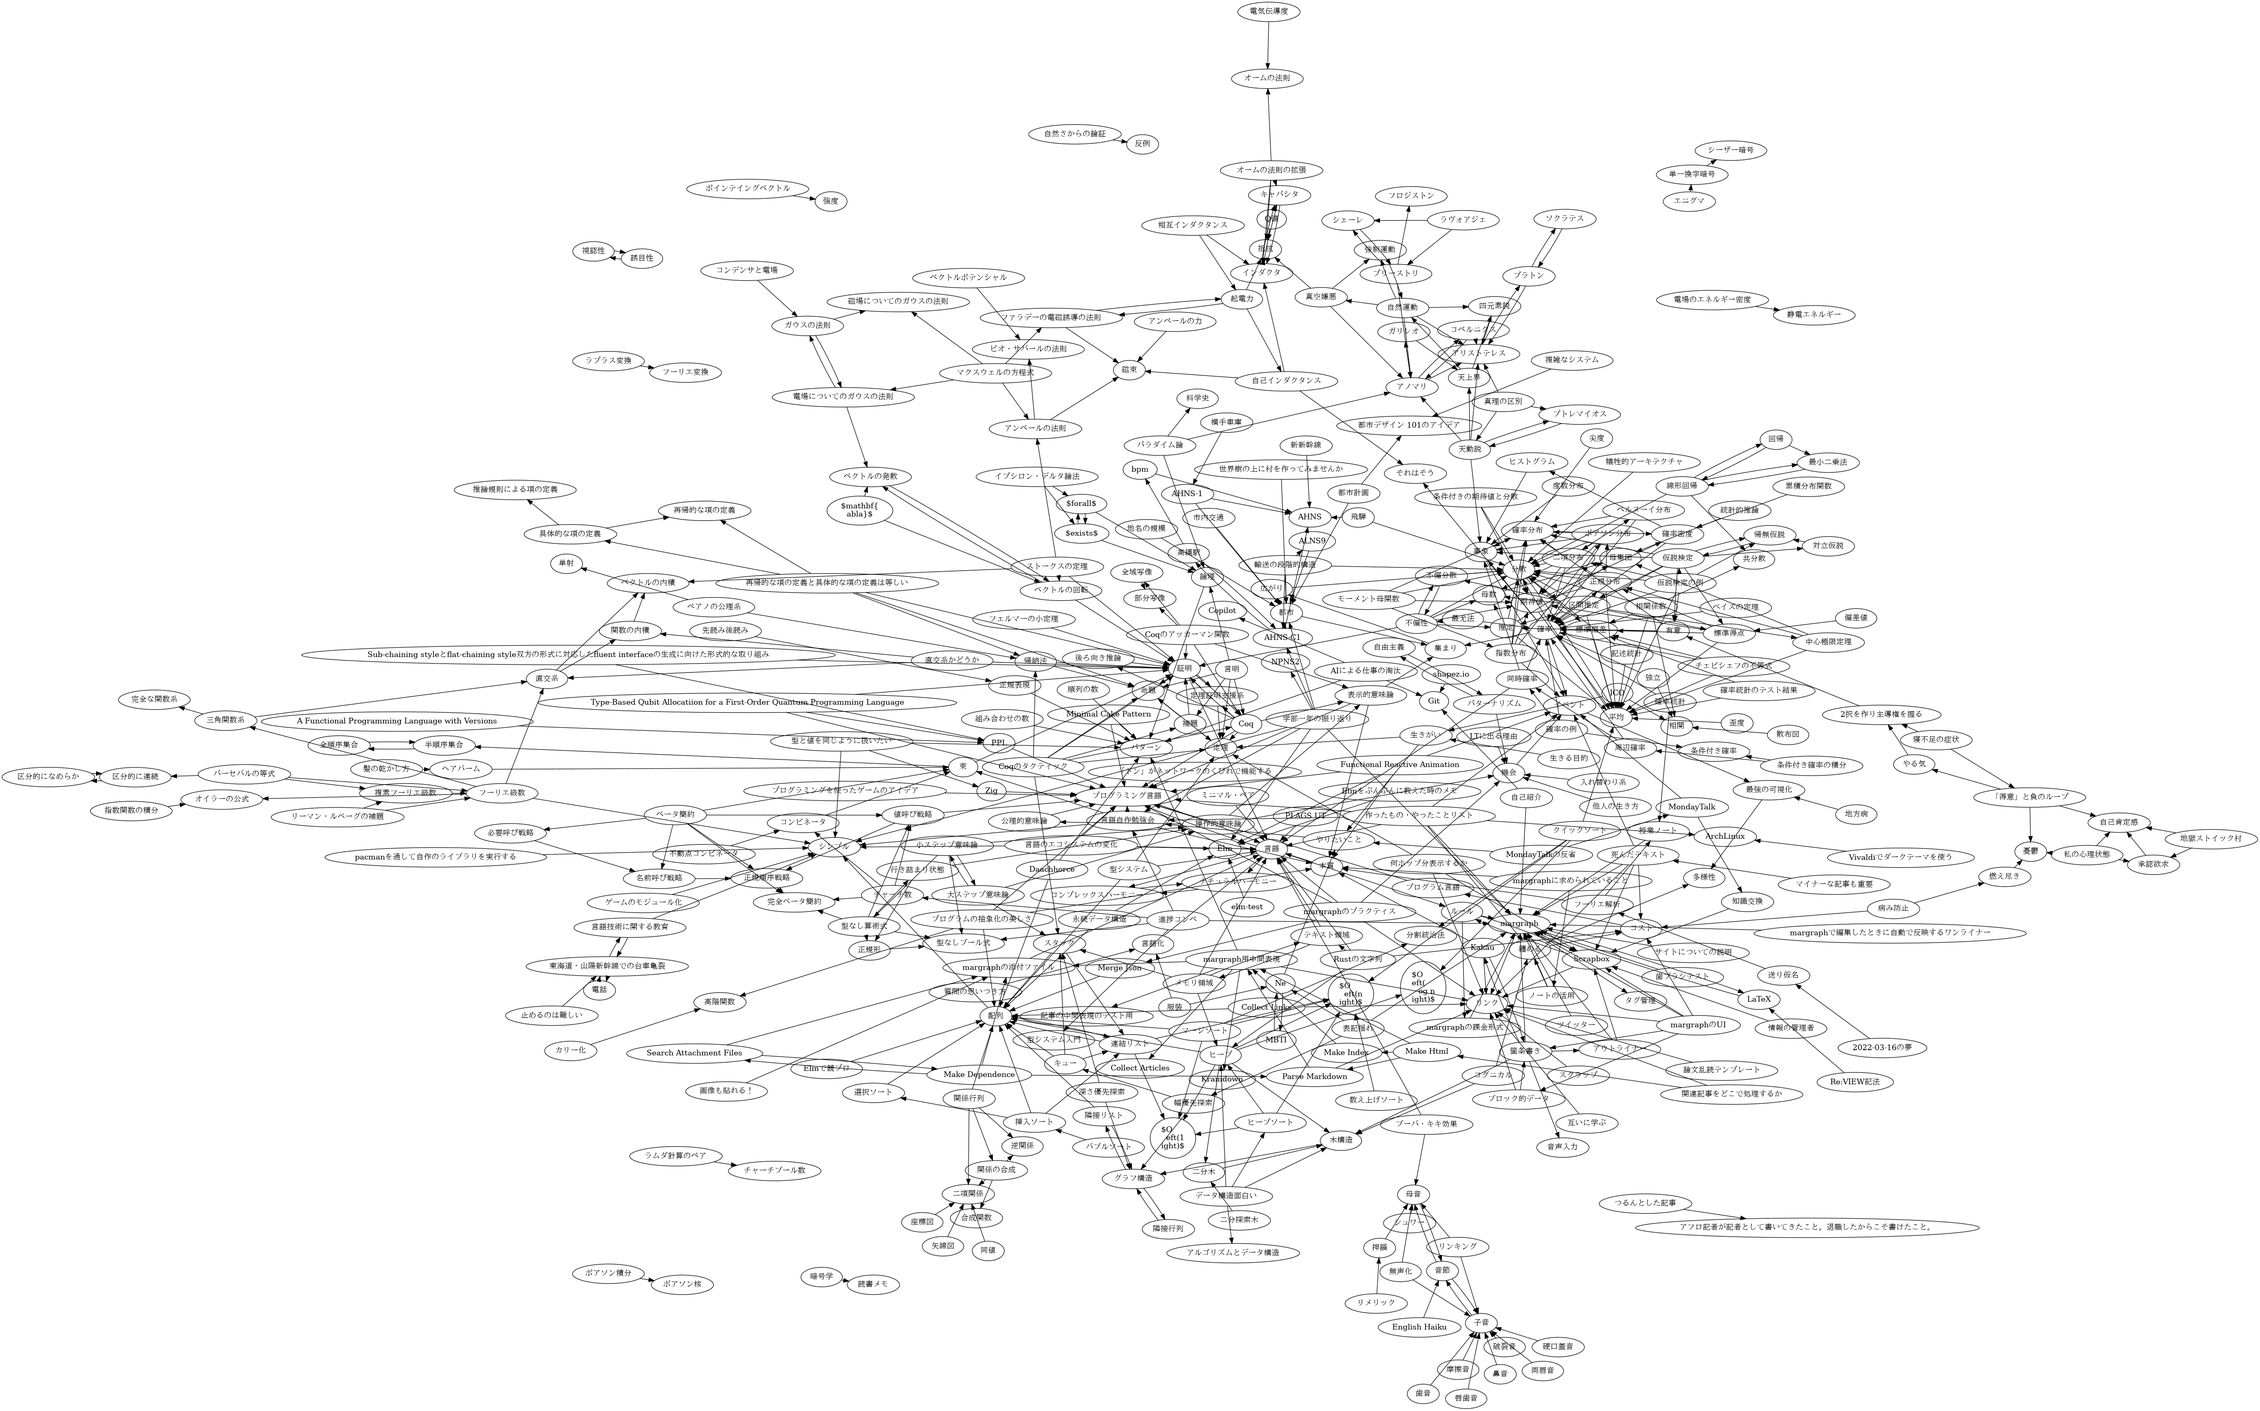
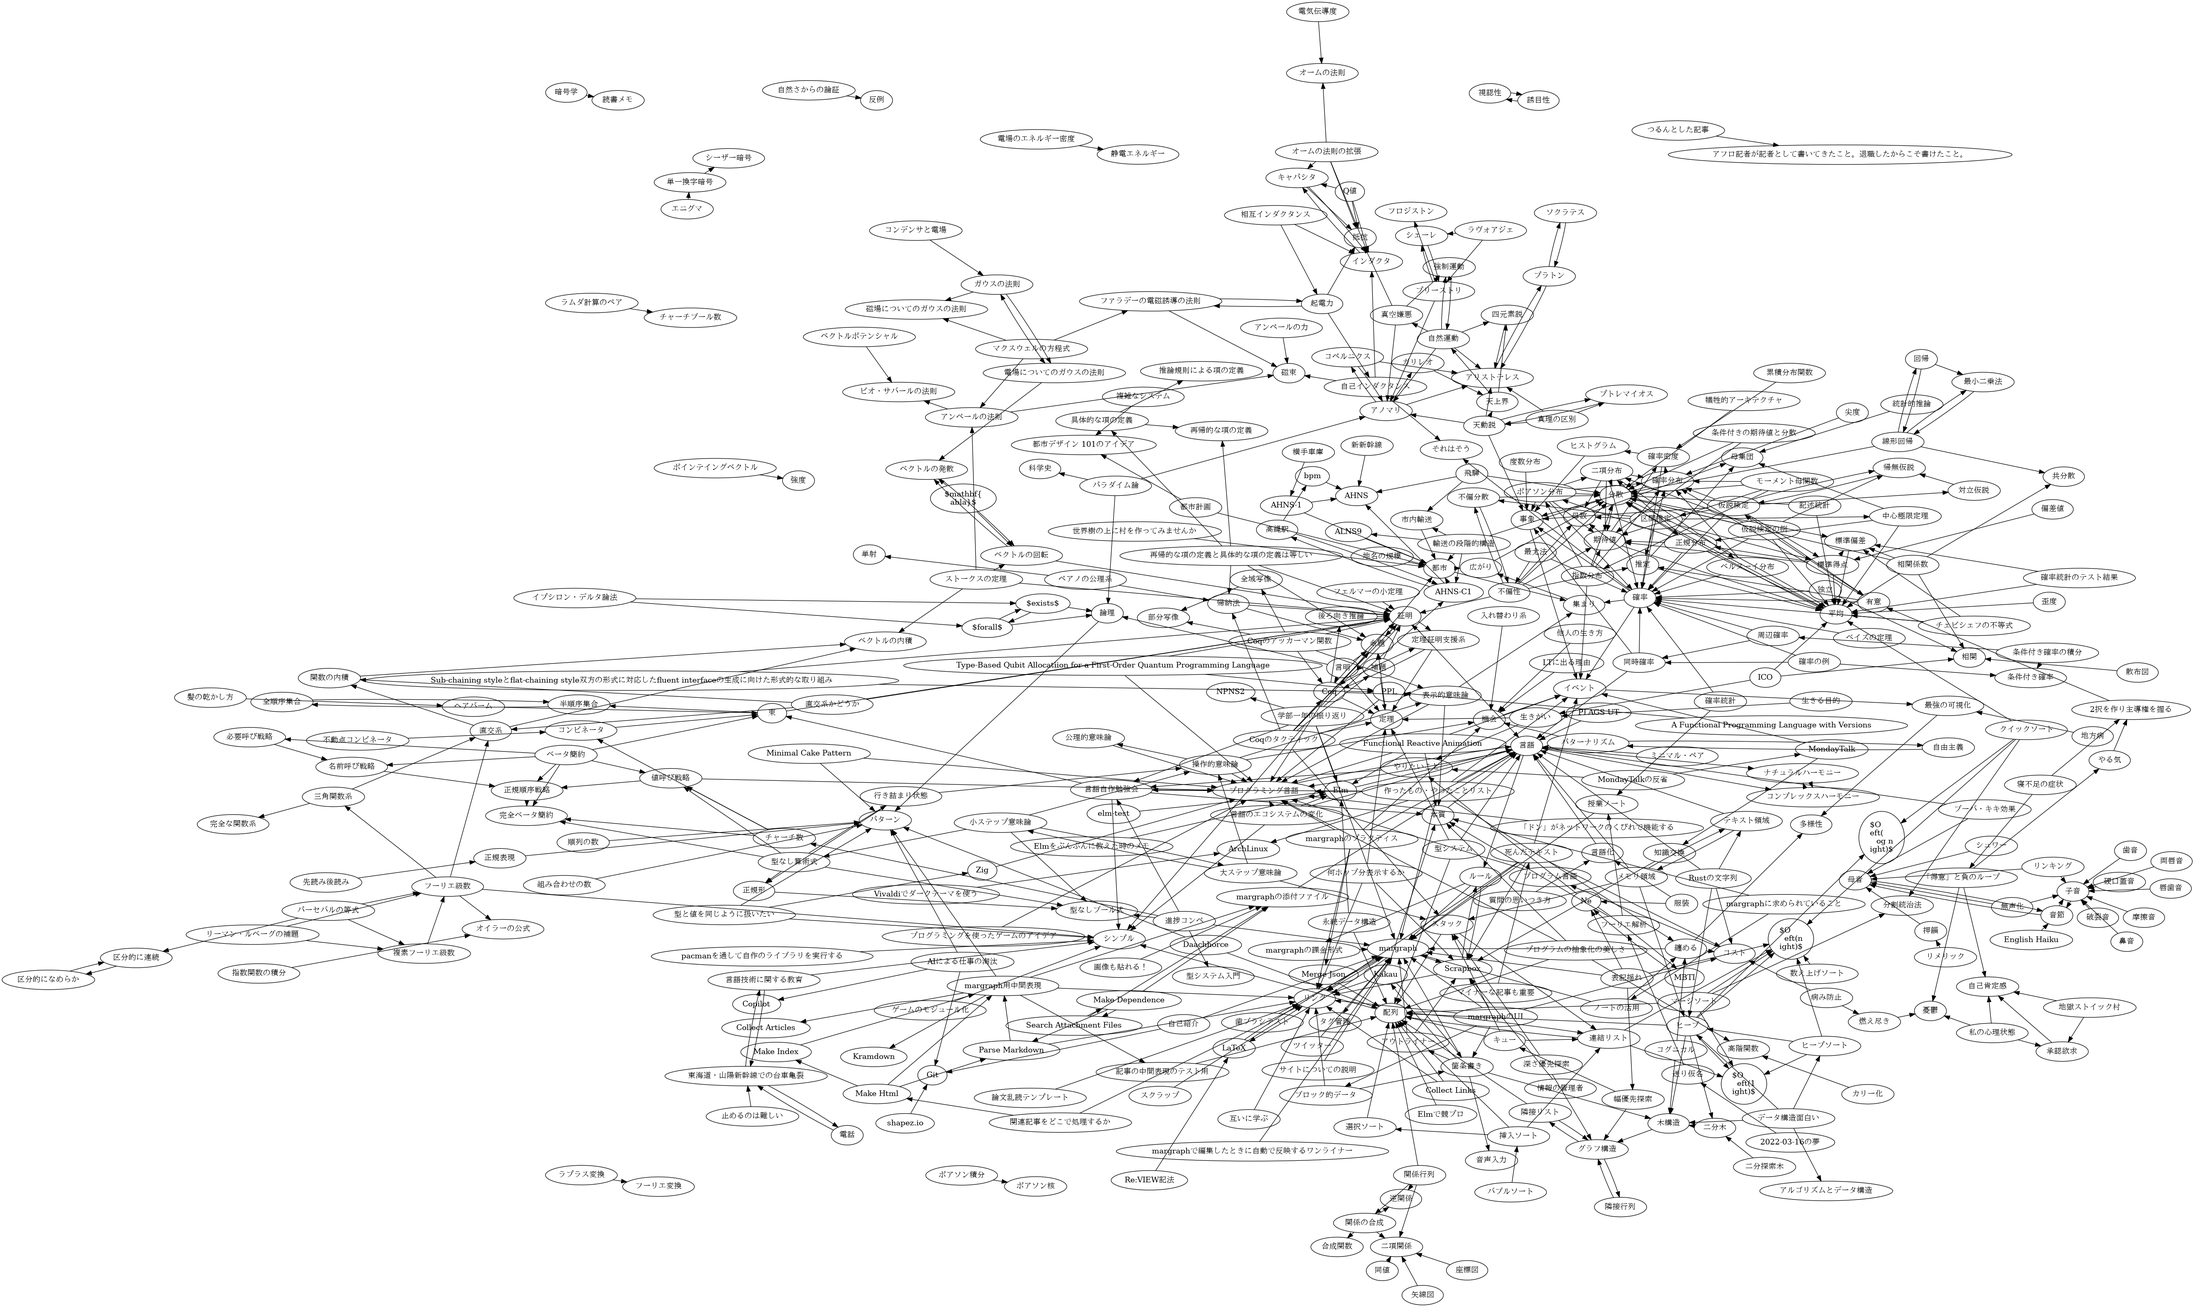
deploy: ae3b2362611cfc9bcfb476d93bd6c4784bf2bf09

diff --git a/simutrans/local-intra-city-trans.html b/simutrans/local-intra-city-trans.html
@@ -33,8 +33,8 @@
         
             
               <div><ul>
-  <li>市内輸送、<a href="../other/city.html">都市</a>圏内輸送、<a href="../other/city.html">都市</a>間輸送、…と、段階を分けたほうが効率が良くなる</li>
-  <li>シムトラでしばらく、ターミナル型で市内輸送と<a href="../other/city.html">都市</a>圏内輸送を合わせる実験をしていた
+  <li><a href="../simutrans/inner-city-transfar.html">市内輸送</a>、<a href="../other/city.html">都市</a>圏内輸送、<a href="../other/city.html">都市</a>間輸送、…と、段階を分けたほうが効率が良くなる</li>
+  <li>シムトラでしばらく、ターミナル型で<a href="../simutrans/inner-city-transfar.html">市内輸送</a>と<a href="../other/city.html">都市</a>圏内輸送を合わせる実験をしていた
     <ul>
       <li><a href="../simutrans/ahns-c1.html">AHNS-C1</a>の高輪ではバスで、<a href="../simutrans/alns-9.html">ALNS9</a>の大花では路面電車で</li>
       <li>ただ、ターミナル付近での交通機関による土地の混雑や、ターミナルから離れた区間で系統を新設しずらい問題が出てきた</li>
@@ -65,7 +65,7 @@
             <div class="col">
               
                 前の記事<br />
-                <a href="../simutrans/inner-city-transfar.html">市内交通</a>
+                <a href="../simutrans/inner-city-transfar.html">市内輸送</a>
               
             </div>
             <div class="col">
@@ -93,6 +93,27 @@
 
       
       <div class="link-network">
+        
+          <div class="row flex-nowrap overflow-auto">
+            <div class="col-4">
+              <div class="card h-100">
+                <div class="card-body">
+                  <h5 class="card-title fs-6"><a href="../simutrans/inner-city-transfar.html">市内輸送</a></h5>
+                  <p class="card-text">- 市内・都市内の需要を処理する交通 - バスや地下鉄、市電、...</p>
+                </div>
+              </div>
+            </div>
+            
+              <div class="col-4">
+                <div class="card h-100">
+                  <div class="card-body">
+                    <h5 class="card-title fs-6"><a href="../simutrans/hida.html">飛騨</a></h5>
+                    <p class="card-text">- AHNS-C2の飛騨付近の開発計画 - ニューヨークやシカ...</p>
+                  </div>
+                </div>
+              </div>
+            
+          </div>
         
           <div class="row flex-nowrap overflow-auto">
             <div class="col-4">
@@ -163,15 +184,6 @@
                   <div class="card-body">
                     <h5 class="card-title fs-6"><a href="../simutrans/ahns-1.html">AHNS-1</a></h5>
                     <p class="card-text">- 初めてのAHNS本戦   - この前にテスト鯖があった -...</p>
-                  </div>
-                </div>
-              </div>
-            
-              <div class="col-4">
-                <div class="card h-100">
-                  <div class="card-body">
-                    <h5 class="card-title fs-6"><a href="../simutrans/inner-city-transfar.html">市内交通</a></h5>
-                    <p class="card-text">- 市内・都市内の需要を処理する交通 - バスや地下鉄、市電、...</p>
                   </div>
                 </div>
               </div>
@@ -379,15 +391,6 @@
                   <div class="card-body">
                     <h5 class="card-title fs-6"><a href="../scraps/sacrificial-architecture.html">犠牲的アーキテクチャ</a></h5>
                     <p class="card-text">- https://bliki-ja.github.io/Sa...</p>
-                  </div>
-                </div>
-              </div>
-            
-              <div class="col-4">
-                <div class="card h-100">
-                  <div class="card-body">
-                    <h5 class="card-title fs-6"><a href="../simutrans/hida.html">飛騨</a></h5>
-                    <p class="card-text">- AHNS-C2の飛騨付近の開発計画 - ニューヨークやシカ...</p>
                   </div>
                 </div>
               </div>

diff --git a/simutrans/inner-city-transfar.html b/simutrans/inner-city-transfar.html
@@ -7,7 +7,7 @@
     <link rel="stylesheet" href="https://cdn.jsdelivr.net/npm/bootstrap-dark-5@1.1.3/dist/css/bootstrap-nightfall.min.css" media="(prefers-color-scheme: dark)">
     <link rel="stylesheet" href="https://cdnjs.cloudflare.com/ajax/libs/highlight.js/11.3.1/styles/base16/ashes.min.css">
     <link rel="stylesheet" href="../style.css" type="text/css">
-    <title>市内交通</title>
+    <title>市内輸送</title>
   </head>
   <body>
     
@@ -19,14 +19,14 @@
           
             <li class="breadcrumb-item"><a href="../simutrans/index.html">simutrans</a></li>
           
-          <li class="breadcrumb-item">市内交通</li>
+          <li class="breadcrumb-item">市内輸送</li>
         </ol>
       </div>
     </nav>
 
     <article class="container" style="max-width: 40em;">
 
-      <h1>市内交通</h1>
+      <h1>市内輸送</h1>
 
       
         <div class="contents">
@@ -180,14 +180,47 @@
                 </div>
               </div>
             
+          </div>
+        
+          <div class="row flex-nowrap overflow-auto">
+            <div class="col-4">
+              <div class="card h-100">
+                <div class="card-body">
+                  <h5 class="card-title fs-6"><a href="../simutrans/hida.html">飛騨</a></h5>
+                  <p class="card-text">- AHNS-C2の飛騨付近の開発計画 - ニューヨークやシカ...</p>
+                </div>
+              </div>
+            </div>
+            
               <div class="col-4">
                 <div class="card h-100">
                   <div class="card-body">
-                    <h5 class="card-title fs-6"><a href="../simutrans/local-intra-city-trans.html">輸送の段階的構造</a></h5>
-                    <p class="card-text">- 市内輸送、都市圏内輸送、都市間輸送、...と、段階を分けた...</p>
+                    <h5 class="card-title fs-6"><a href="../simutrans/ahns.html">AHNS</a></h5>
+                    <p class="card-text">- ahakuokuが開いたNSサーバー - 主にpak128...</p>
                   </div>
                 </div>
               </div>
+            
+              <div class="col-4">
+                <div class="card h-100">
+                  <div class="card-body">
+                    <h5 class="card-title fs-6"><a href="../math/probability-statistics/05a-variance.html">分散</a></h5>
+                    <p class="card-text">- 標準偏差を2乗したもの   - $\sigma^2$ - ...</p>
+                  </div>
+                </div>
+              </div>
+            
+          </div>
+        
+          <div class="row flex-nowrap overflow-auto">
+            <div class="col-4">
+              <div class="card h-100">
+                <div class="card-body">
+                  <h5 class="card-title fs-6"><a href="../simutrans/local-intra-city-trans.html">輸送の段階的構造</a></h5>
+                  <p class="card-text">- 市内輸送、都市圏内輸送、都市間輸送、...と、段階を分けた...</p>
+                </div>
+              </div>
+            </div>
             
           </div>
         

diff --git a/simutrans/hida.html b/simutrans/hida.html
@@ -65,7 +65,7 @@
       <li>アーチ屋根などを活用したい</li>
     </ul>
   </li>
-  <li>市内輸送
+  <li><a href="../simutrans/inner-city-transfar.html">市内輸送</a>
     <ul>
       <li>路面電車と高架鉄道に絞る</li>
       <li>使い分けはまだ考えてない</li>
@@ -104,7 +104,7 @@
             <div class="col">
               
                 次の記事<br />
-                <a href="../simutrans/inner-city-transfar.html">市内交通</a>
+                <a href="../simutrans/inner-city-transfar.html">市内輸送</a>
               
             </div>
           </div>
@@ -346,6 +346,27 @@
                   <div class="card-body">
                     <h5 class="card-title fs-6"><a href="../simutrans/local-intra-city-trans.html">輸送の段階的構造</a></h5>
                     <p class="card-text">- 市内輸送、都市圏内輸送、都市間輸送、...と、段階を分けた...</p>
+                  </div>
+                </div>
+              </div>
+            
+          </div>
+        
+          <div class="row flex-nowrap overflow-auto">
+            <div class="col-4">
+              <div class="card h-100">
+                <div class="card-body">
+                  <h5 class="card-title fs-6"><a href="../simutrans/inner-city-transfar.html">市内輸送</a></h5>
+                  <p class="card-text">- 市内・都市内の需要を処理する交通 - バスや地下鉄、市電、...</p>
+                </div>
+              </div>
+            </div>
+            
+              <div class="col-4">
+                <div class="card h-100">
+                  <div class="card-body">
+                    <h5 class="card-title fs-6"><a href="../other/city.html">都市</a></h5>
+                    <p class="card-text">- 都市には広がりと集まりが必要なのではないか   - 集まり...</p>
                   </div>
                 </div>
               </div>

diff --git a/other/city.html b/other/city.html
@@ -308,11 +308,20 @@
             <div class="col-4">
               <div class="card h-100">
                 <div class="card-body">
-                  <h5 class="card-title fs-6"><a href="../simutrans/inner-city-transfar.html">市内交通</a></h5>
+                  <h5 class="card-title fs-6"><a href="../simutrans/inner-city-transfar.html">市内輸送</a></h5>
                   <p class="card-text">- 市内・都市内の需要を処理する交通 - バスや地下鉄、市電、...</p>
                 </div>
               </div>
             </div>
+            
+              <div class="col-4">
+                <div class="card h-100">
+                  <div class="card-body">
+                    <h5 class="card-title fs-6"><a href="../simutrans/hida.html">飛騨</a></h5>
+                    <p class="card-text">- AHNS-C2の飛騨付近の開発計画 - ニューヨークやシカ...</p>
+                  </div>
+                </div>
+              </div>
             
           </div>
         

diff --git a/math/probability-statistics/05a-variance.html b/math/probability-statistics/05a-variance.html
@@ -604,6 +604,15 @@ V[X] &amp;=&amp; \sum_{k=1}^{|\Omega|} (x_k - E[X])^2 P(X=x_k) \\
                 </div>
               </div>
             
+              <div class="col-4">
+                <div class="card h-100">
+                  <div class="card-body">
+                    <h5 class="card-title fs-6"><a href="../../simutrans/inner-city-transfar.html">市内輸送</a></h5>
+                    <p class="card-text">- 市内・都市内の需要を処理する交通 - バスや地下鉄、市電、...</p>
+                  </div>
+                </div>
+              </div>
+            
           </div>
         
           <div class="row flex-nowrap overflow-auto">

diff --git a/simutrans/ahns.html b/simutrans/ahns.html
@@ -181,6 +181,15 @@
                 </div>
               </div>
             
+              <div class="col-4">
+                <div class="card h-100">
+                  <div class="card-body">
+                    <h5 class="card-title fs-6"><a href="../simutrans/inner-city-transfar.html">市内輸送</a></h5>
+                    <p class="card-text">- 市内・都市内の需要を処理する交通 - バスや地下鉄、市電、...</p>
+                  </div>
+                </div>
+              </div>
+            
           </div>
         
           <div class="row flex-nowrap overflow-auto">

diff --git a/long-tweets/2021-11-26.html b/long-tweets/2021-11-26.html
@@ -173,7 +173,7 @@
               <div class="col-4">
                 <div class="card h-100">
                   <div class="card-body">
-                    <h5 class="card-title fs-6"><a href="../simutrans/inner-city-transfar.html">市内交通</a></h5>
+                    <h5 class="card-title fs-6"><a href="../simutrans/inner-city-transfar.html">市内輸送</a></h5>
                     <p class="card-text">- 市内・都市内の需要を処理する交通 - バスや地下鉄、市電、...</p>
                   </div>
                 </div>

diff --git a/novels/world-tree.html b/novels/world-tree.html
@@ -185,7 +185,7 @@
               <div class="col-4">
                 <div class="card h-100">
                   <div class="card-body">
-                    <h5 class="card-title fs-6"><a href="../simutrans/inner-city-transfar.html">市内交通</a></h5>
+                    <h5 class="card-title fs-6"><a href="../simutrans/inner-city-transfar.html">市内輸送</a></h5>
                     <p class="card-text">- 市内・都市内の需要を処理する交通 - バスや地下鉄、市電、...</p>
                   </div>
                 </div>

diff --git a/other/atsumari.html b/other/atsumari.html
@@ -389,7 +389,7 @@
               <div class="col-4">
                 <div class="card h-100">
                   <div class="card-body">
-                    <h5 class="card-title fs-6"><a href="../simutrans/inner-city-transfar.html">市内交通</a></h5>
+                    <h5 class="card-title fs-6"><a href="../simutrans/inner-city-transfar.html">市内輸送</a></h5>
                     <p class="card-text">- 市内・都市内の需要を処理する交通 - バスや地下鉄、市電、...</p>
                   </div>
                 </div>

diff --git a/other/hirogari.html b/other/hirogari.html
@@ -373,7 +373,7 @@
               <div class="col-4">
                 <div class="card h-100">
                   <div class="card-body">
-                    <h5 class="card-title fs-6"><a href="../simutrans/inner-city-transfar.html">市内交通</a></h5>
+                    <h5 class="card-title fs-6"><a href="../simutrans/inner-city-transfar.html">市内輸送</a></h5>
                     <p class="card-text">- 市内・都市内の需要を処理する交通 - バスや地下鉄、市電、...</p>
                   </div>
                 </div>

diff --git a/other/undergraduate-1.html b/other/undergraduate-1.html
@@ -667,7 +667,7 @@
               <div class="col-4">
                 <div class="card h-100">
                   <div class="card-body">
-                    <h5 class="card-title fs-6"><a href="../simutrans/inner-city-transfar.html">市内交通</a></h5>
+                    <h5 class="card-title fs-6"><a href="../simutrans/inner-city-transfar.html">市内輸送</a></h5>
                     <p class="card-text">- 市内・都市内の需要を処理する交通 - バスや地下鉄、市電、...</p>
                   </div>
                 </div>

diff --git a/scraps/city-project.html b/scraps/city-project.html
@@ -176,7 +176,7 @@
               <div class="col-4">
                 <div class="card h-100">
                   <div class="card-body">
-                    <h5 class="card-title fs-6"><a href="../simutrans/inner-city-transfar.html">市内交通</a></h5>
+                    <h5 class="card-title fs-6"><a href="../simutrans/inner-city-transfar.html">市内輸送</a></h5>
                     <p class="card-text">- 市内・都市内の需要を処理する交通 - バスや地下鉄、市電、...</p>
                   </div>
                 </div>
